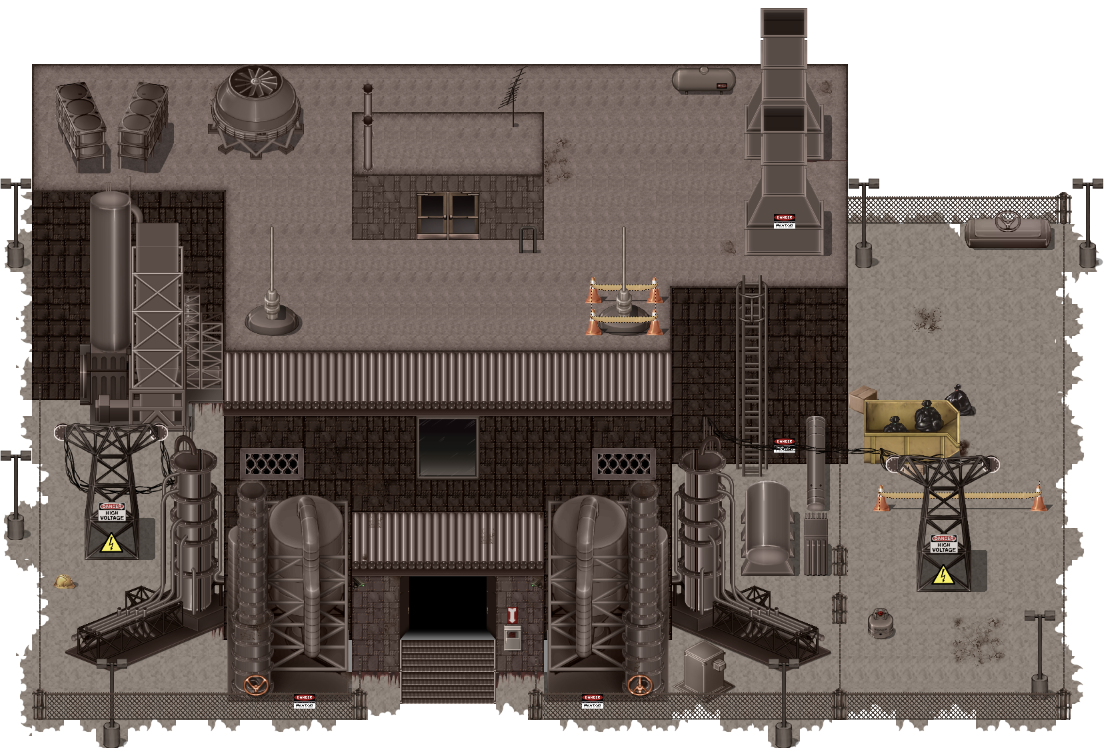
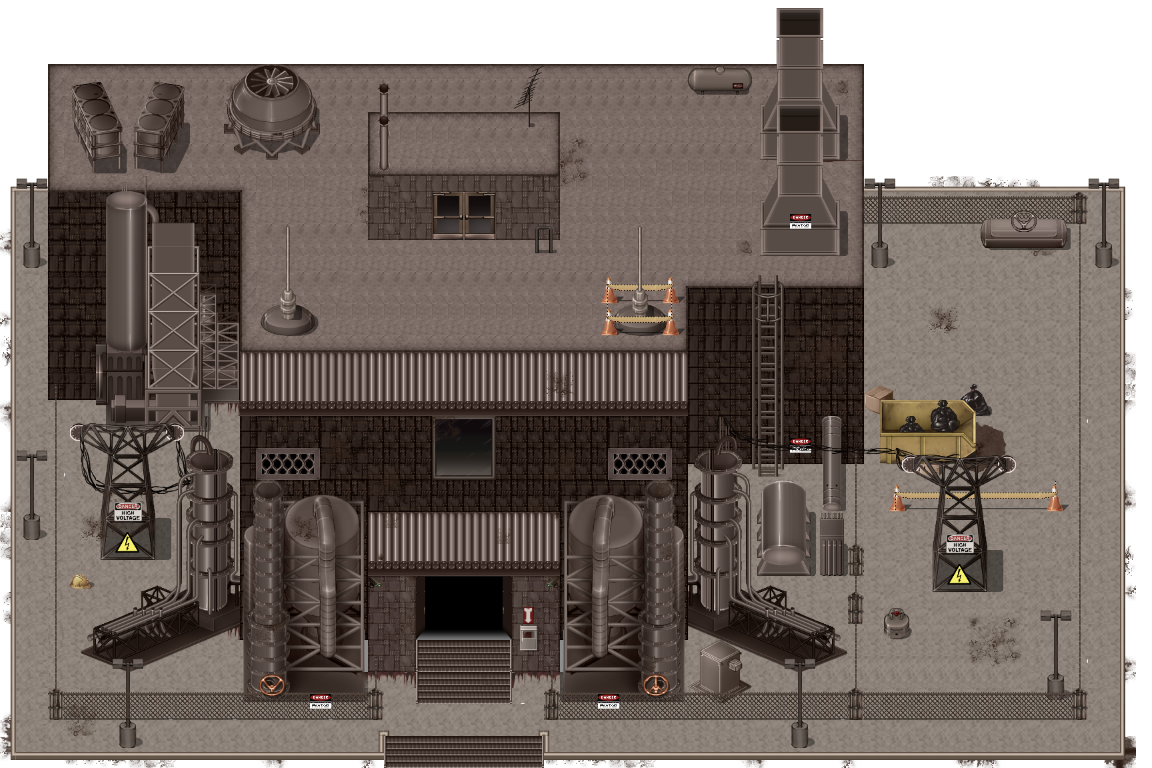
Working background system, TODO: fix hovering over background

diff --git a/lib/src/game/game.dart b/lib/src/game/game.dart
@@ -56,10 +56,17 @@ final class SustainaCityGame extends FlameGame<SustainaCityWorld>
   }
 
   /// Converts screen coordinates (with pan/zoom) to global coordinates (units)
-  UnitCoordinates _toGlobalCoordinates(Vector2 screenCoordinates) =>
-      ((screenCoordinates - canvasSize.scaled(0.5) - camera.viewport.position) /
-              (camera.viewfinder.zoom * Tile.unitSize))
+  UnitCoordinates? _toGlobalCoordinates(Vector2 screenCoordinates) {
+    try {
+      return ((screenCoordinates -
+                  canvasSize.scaled(0.5) -
+                  camera.viewport.position) /
+              (camera.viewfinder.zoom * Tile.pixelSize))
           .toUnits();
+    } on CoordinatesOutOfBounds catch (_) {
+      return null;
+    }
+  }
 
   @override
   void onPanUpdate(DragUpdateInfo info) =>
@@ -101,27 +108,10 @@ final class SustainaCityGame extends FlameGame<SustainaCityWorld>
     super.onMount();
   }
 
-  /// Left-click handler
-  @override
-  void onTapUp(TapUpInfo info) {
-    _buildMode.build(_toGlobalCoordinates(info.eventPosition.global));
-    super.onTapUp(info);
-  }
-
-  /// Right-click handler
-  @override
-  void onSecondaryTapUp(TapUpInfo info) {
-    _buildMode.destroy(_toGlobalCoordinates(info.eventPosition.global));
-    super.onSecondaryTapUp(info);
-  }
-
-  @override
-  void onPointerMove(PointerMoveEvent event) {
-    final position = _toGlobalCoordinates(event.devicePosition);
-
+  void updateHighlightedTile(UnitCoordinates coordinates) {
     Tile? newTile;
     for (final layer in world.layers) {
-      newTile = layer.get(position) ?? newTile;
+      newTile = layer.get(coordinates) ?? newTile;
     }
     if (newTile != hoveredTile) {
       if (newTile != null) {
@@ -133,7 +123,36 @@ final class SustainaCityGame extends FlameGame<SustainaCityWorld>
         hoveredTile = null;
       }
     }
+  }
 
+  /// Left-click handler
+  @override
+  void onTapUp(TapUpInfo info) {
+    final position = _toGlobalCoordinates(info.eventPosition.global);
+    if (position != null) {
+      _buildMode.build(position);
+      updateHighlightedTile(position);
+    }
+    super.onTapUp(info);
+  }
+
+  /// Right-click handler
+  @override
+  void onSecondaryTapUp(TapUpInfo info) {
+    final position = _toGlobalCoordinates(info.eventPosition.global);
+    if (position != null) {
+      _buildMode.destroy(position);
+      updateHighlightedTile(position);
+    }
+    super.onSecondaryTapUp(info);
+  }
+
+  @override
+  void onPointerMove(PointerMoveEvent event) {
+    final position = _toGlobalCoordinates(event.devicePosition);
+    if (position != null) {
+      updateHighlightedTile(position);
+    }
     super.onPointerMove(event);
   }
 

diff --git a/lib/src/game/tiles/tile.dart b/lib/src/game/tiles/tile.dart
@@ -38,7 +38,7 @@ final class IncorrectLayerType implements Exception {
 abstract base class Tile<T extends Tile<T>> extends SpriteComponent
     with HasWorldReference<SustainaCityWorld> {
   /// Pixel size of a single unit
-  static const unitSize = 32.0;
+  static const pixelSize = 32.0;
 
   /// The tint of the sprite when hovered over
   static const hoverColor = Color.fromARGB(51, 251, 219, 67);
@@ -55,8 +55,8 @@ abstract base class Tile<T extends Tile<T>> extends SpriteComponent
   Tile(this.coordinates)
       : super(
           position: Vector2(
-            coordinates.x * unitSize,
-            coordinates.y * unitSize,
+            coordinates.x * pixelSize,
+            coordinates.y * pixelSize,
           ),
         ) {
     paint.isAntiAlias = false;
@@ -81,9 +81,9 @@ abstract base class Tile<T extends Tile<T>> extends SpriteComponent
     // load and set the sprite
     sprite = Sprite(
       await Flame.images.load(spritePath),
-      srcSize: Vector2(tileWidth * unitSize, tileHeight * unitSize),
+      srcSize: Vector2(widthUnits * pixelSize, tileHeight * pixelSize),
       srcPosition:
-          Vector2(srcTileOffsetX * unitSize, srcTileOffsetY * unitSize),
+          Vector2(srcTileOffsetX * pixelSize, srcTileOffsetY * pixelSize),
     );
 
     // Fixes anti-aliasing issues on web
@@ -99,16 +99,16 @@ abstract base class Tile<T extends Tile<T>> extends SpriteComponent
   /// The path to the sprite sheet
   String get spritePath;
 
-  /// The offset (measured in units) of the sprite within the sprite sheet
+  /// The offset of the sprite within the sprite sheet measured in units
   int get srcTileOffsetX;
 
-  /// The offset (measured in units) of the sprite within the sprite sheet
+  /// The offset of the sprite within the sprite sheet measured in units
   int get srcTileOffsetY;
 
-  /// The width (measured in units) of the sprite
-  int get tileWidth;
+  /// The width of the sprite measured in units
+  int get widthUnits;
 
-  /// The height (measured in units) of the sprite
+  /// The height of the sprite measured in units
   int get tileHeight;
 
   /// Iterate through each unit in the [Tile], calling [callback] on each one.
@@ -121,7 +121,7 @@ abstract base class Tile<T extends Tile<T>> extends SpriteComponent
     void breakLoopCallback() => breakLoop = true;
 
     for (int y = coordinates.y; y < coordinates.y + tileHeight; ++y) {
-      for (int x = coordinates.x; x < coordinates.x + tileWidth; ++x) {
+      for (int x = coordinates.x; x < coordinates.x + widthUnits; ++x) {
         callback(UnitCoordinates(x, y), breakLoopCallback);
         if (breakLoop) {
           return;

diff --git a/lib/src/game/camera.dart b/lib/src/game/camera.dart
@@ -12,13 +12,13 @@ const kZoomSpeed = 0.003;
 extension SustainaCityCamera on CameraComponent {
   /// Clamps the camera position to the bounds of the map.
   void _clampPosition() => viewport.position.clampScalar(
-      -kMapBounds * Tile.unitSize * viewfinder.zoom + 1,
-      kMapBounds * Tile.unitSize * viewfinder.zoom);
+      -kMapBounds * Tile.pixelSize * viewfinder.zoom + 1,
+      kMapBounds * Tile.pixelSize * viewfinder.zoom);
 
   /// Returns [position] scaled with [zoom] in units.
   static UnitCoordinates _globalPixelCoordinatesToUnits(
           Vector2 position, double zoom) =>
-      (position / (Tile.unitSize * zoom)).toUnits();
+      (position / (Tile.pixelSize * zoom)).toUnits();
 
   /// Returns half [size] scaled with [zoom] in units, with an extra padding.
   static UnitCoordinates _halfRenderBounds(Vector2 size, double zoom) =>
@@ -72,6 +72,10 @@ extension SustainaCityCamera on CameraComponent {
     final positionUnits =
         _globalPixelCoordinatesToUnits(-viewport.position, viewfinder.zoom);
 
+    // Move the background so that it is centered on the camera
+    final theWorld = world as SustainaCityWorld;
+    theWorld.background.updatePosition(positionUnits);
+
     // Half the old local bounds of the viewport in units
     final oldHalfBounds = _halfRenderBounds(viewport.size, oldZoom);
 
@@ -93,7 +97,6 @@ extension SustainaCityCamera on CameraComponent {
         ((oldPositionUnits + (oldHalfBounds, checkBounds: false))
             .clampScalar(-kMapBounds, kMapBounds - 1));
 
-    final theWorld = world as SustainaCityWorld;
     for (final layer in theWorld.layers) {
       // Hide the tiles that are no longer in the viewport
       _updateRenderedTilesHelper(

diff --git a/lib/src/game/world.dart b/lib/src/game/world.dart
@@ -2,10 +2,9 @@ import 'dart:async';
 
 import 'package:flame/components.dart';
 
+import 'background.dart';
 import 'game.dart';
 import 'tiles/buildings/building.dart';
-import 'tiles/ground/grass.dart';
-import 'tiles/ground/ground.dart';
 import 'tiles/layer.dart';
 import 'tiles/tile.dart';
 
@@ -16,7 +15,7 @@ const kMapSize = 1500;
 const kMapBounds = kMapSize ~/ 2;
 
 /// The width/height of the map (measured in pixels).
-const kMapSizePixels = kMapSize * Tile.unitSize;
+const kMapSizePixels = kMapSize * Tile.pixelSize;
 
 /// The amount of money the player earns per second.
 const kMoneyRate = 3.0;
@@ -26,14 +25,14 @@ const kInitialMoney = 100.0;
 
 final class SustainaCityWorld extends World
     with HasGameRef<SustainaCityGame>, Pauseable {
-  /// This layer houses all the ground tiles.
-  final groundLayer = Layer<Ground>(Grass.new);
+  /// The background of the world. This is a static image.
+  final background = Background();
 
   /// Buildings are placed on this layer.
   final buildingLayer = Layer<Building>((_) => null);
 
   /// All the layers in the world.
-  late final layers = <Layer<Tile>>[groundLayer, buildingLayer];
+  late final layers = <Layer<Tile>>[buildingLayer];
 
   /// Maps tile types to the layers they should go in.
   final tileToLayer = <Type, Layer>{};
@@ -45,8 +44,10 @@ final class SustainaCityWorld extends World
 
   @override
   FutureOr<void> onLoad() async {
-    await add(groundLayer);
-    await add(buildingLayer);
+    await Future.wait<void>([
+      ...layers.map((layer) async => await add(layer)),
+      (() async => await add(background))()
+    ]);
     return await super.onLoad();
   }
 

diff --git a/lib/src/game/build_mode/building.dart b/lib/src/game/build_mode/building.dart
@@ -21,16 +21,10 @@ final class BuildingBuildMode extends BuildMode {
     if (world.money < building.price) {
       error('Need \$${building.price}, but only have \$${world.money}');
     } else {
-      try {
-        if (world.buildingLayer.setTile(building)) {
-          world.groundLayer.get(coordinates)?.unhighlight();
-          building.highlight();
-
-          // Deduct the price of the building from the player's money
-          world.money -= building.price;
-        }
-      } on CoordinatesOutOfBounds catch (e) {
-        error(e.toString());
+      // Deduct the price of the building from the player's money only if the
+      // building is successfully placed
+      if (world.buildingLayer.setTile(building)) {
+        world.money -= building.price;
       }
     }
   }
@@ -42,9 +36,6 @@ final class BuildingBuildMode extends BuildMode {
     final building = world.buildingLayer.get(coordinates);
     if (building != null) {
       building.removeFromLayer();
-
-      building.unhighlight();
-      world.groundLayer.get(coordinates)?.highlight();
 
       // Refund the player for a portion of the building's price
       world.money += building.price * kDestroyRefund;

diff --git a/lib/src/game/background.dart b/lib/src/game/background.dart
@@ -1,0 +1,29 @@
+import 'dart:async';
+
+import 'package:flame/components.dart';
+import 'package:flame/flame.dart';
+
+import 'tiles/coordinates.dart';
+import 'tiles/tile.dart';
+
+final class Background extends SpriteComponent {
+  static const unitSize = 200;
+  static const cameraOffset = (-unitSize ~/ 2) * Tile.pixelSize;
+
+  static Vector2 _offset(UnitCoordinates cameraCoordinates) => Vector2(
+      cameraCoordinates.x * Tile.pixelSize + cameraOffset,
+      cameraCoordinates.y * Tile.pixelSize + cameraOffset);
+
+  Background() : super(position: _offset(UnitCoordinates(0, 0)), priority: -1);
+
+  void updatePosition(UnitCoordinates cameraCoordinates) =>
+      position = _offset(cameraCoordinates);
+
+  @override
+  FutureOr<void> onLoad() async {
+    sprite = Sprite(await Flame.images.load('bg.png'),
+        srcSize: Vector2.all(unitSize * Tile.pixelSize),
+        srcPosition: Vector2.zero());
+    return await super.onLoad();
+  }
+}

diff --git a/lib/src/game/tiles/buildings/house.dart b/lib/src/game/tiles/buildings/house.dart
@@ -16,7 +16,7 @@ final class SmallHouse extends House {
   String get spritePath => 'suburbs2_TileB.png';
 
   @override
-  int get tileWidth => 5;
+  int get widthUnits => 5;
 
   @override
   int get tileHeight => 10;
@@ -41,7 +41,7 @@ final class LargeHouse extends House {
   String get spritePath => 'suburbs_TileE.png';
 
   @override
-  int get tileWidth => 8;
+  int get widthUnits => 8;
 
   @override
   int get tileHeight => 10;

diff --git a/lib/src/game/tiles/layer.dart b/lib/src/game/tiles/layer.dart
@@ -105,7 +105,7 @@ final class Layer<T extends Tile<T>> extends Component
       // This will occur if the player tries to build on the edge of the map.
       // This is an expected error and should be caught and handled.
     } on CoordinatesOutOfBounds catch (e) {
-      error(e.toString());
+      error('Tried to place $tile but $e');
       return false;
     }
 

diff --git a/lib/src/game/tiles/buildings/factory.dart b/lib/src/game/tiles/buildings/factory.dart
@@ -15,7 +15,7 @@ final class Factory extends Building {
   int get tileHeight => 24;
 
   @override
-  int get tileWidth => 35;
+  int get widthUnits => 36;
 
   @override
   int get srcTileOffsetX => 0;
